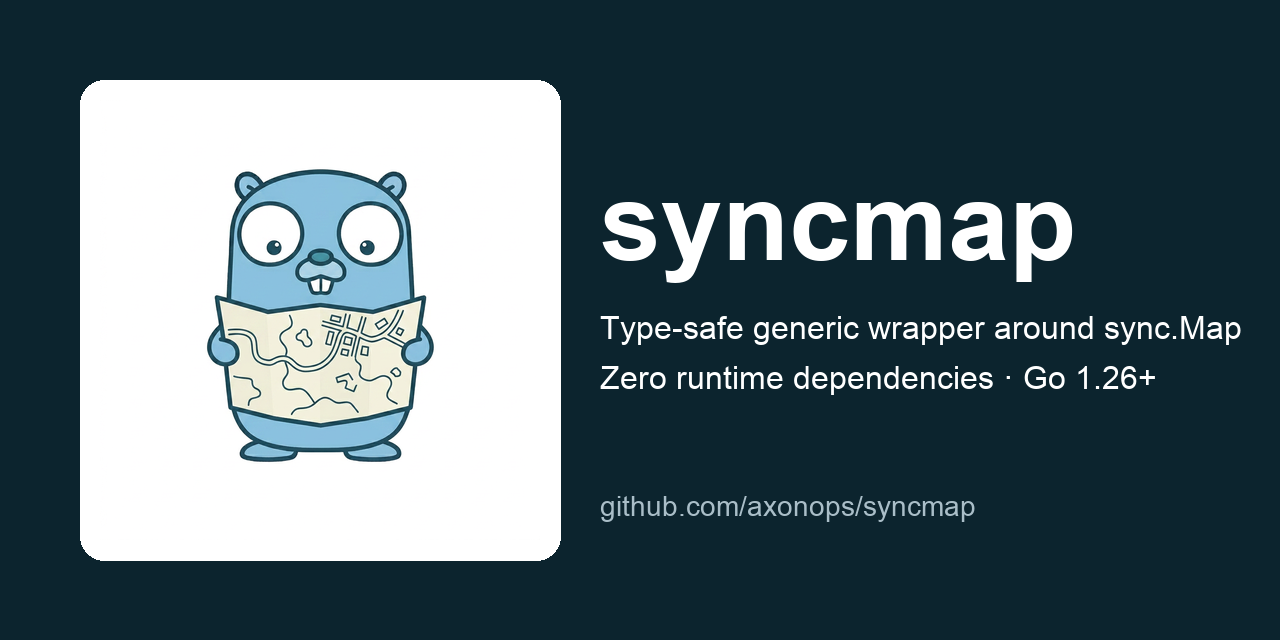
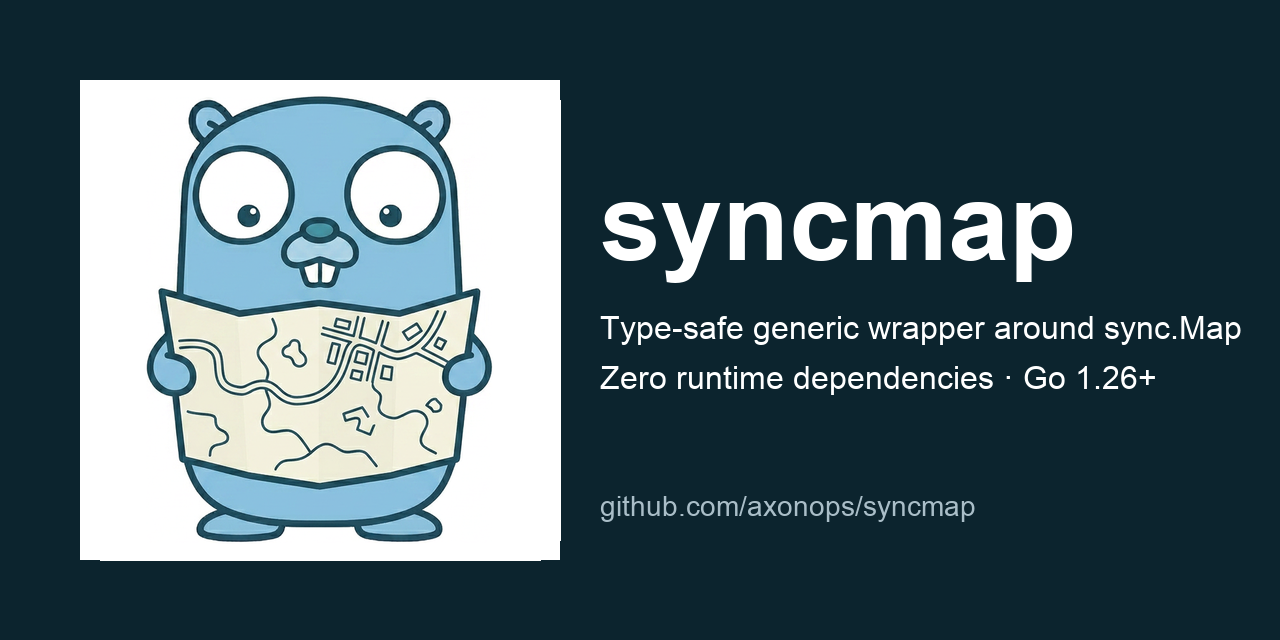
docs: tighten gopher padding and link upstream in README subtitle (#32)
* docs: tighten gopher padding and link upstream in README subtitle

Two small README polish items following the fork-framing PR:

  * Logo padding was 24% per side — too loose against mask's
    ~10% convention. Re-cropped the source gopher to its
    bounding box and padded to match mask's content-height
    ratio (93% of frame), so the gopher fills the frame with
    similar visual weight to axonops/mask/.github/images/logo-readme.png.
    Re-rendered social-preview-1280x640.png from the tightened
    logo so the card inside the preview matches too.

  * README subtitle now hyperlinks `rgooding/go-syncmap`
    directly to https://github.com/rgooding/go-syncmap so
    readers can one-click through to the upstream.

No code change. Coverage remains 100%; llms-full.txt not affected
(README subtitle reflows inside the bundle but go doc -all is the
canonical source; re-running the drift guard will confirm after
the merge).

* docs: tighten gopher padding and link upstream in README subtitle

  * Logo: re-cropped the source gopher to its bounding box and
    repadded to match axonops/mask's ~10% convention (the previous
    layout had ~24% padding per side and the gopher looked small).
    Regenerated social-preview-1280x640.png from the tightened
    logo so the card inside the preview has the same visual weight.
  * README subtitle now links `rgooding/go-syncmap` directly to
    https://github.com/rgooding/go-syncmap.
[…]

diff --git a/README.md b/README.md
@@ -4,7 +4,7 @@
 
   # syncmap
 
-  **AxonOps-packaged fork of `rgooding/go-syncmap` — a type-safe generic wrapper around Go's `sync.Map`.**
+  **AxonOps-packaged fork of [`rgooding/go-syncmap`](https://github.com/rgooding/go-syncmap) — a type-safe generic wrapper around Go's `sync.Map`.**
 
   [![CI](https://github.com/axonops/syncmap/actions/workflows/ci.yml/badge.svg?branch=main)](https://github.com/axonops/syncmap/actions/workflows/ci.yml)
   [![Go Reference](https://pkg.go.dev/badge/github.com/axonops/syncmap.svg)](https://pkg.go.dev/github.com/axonops/syncmap)
